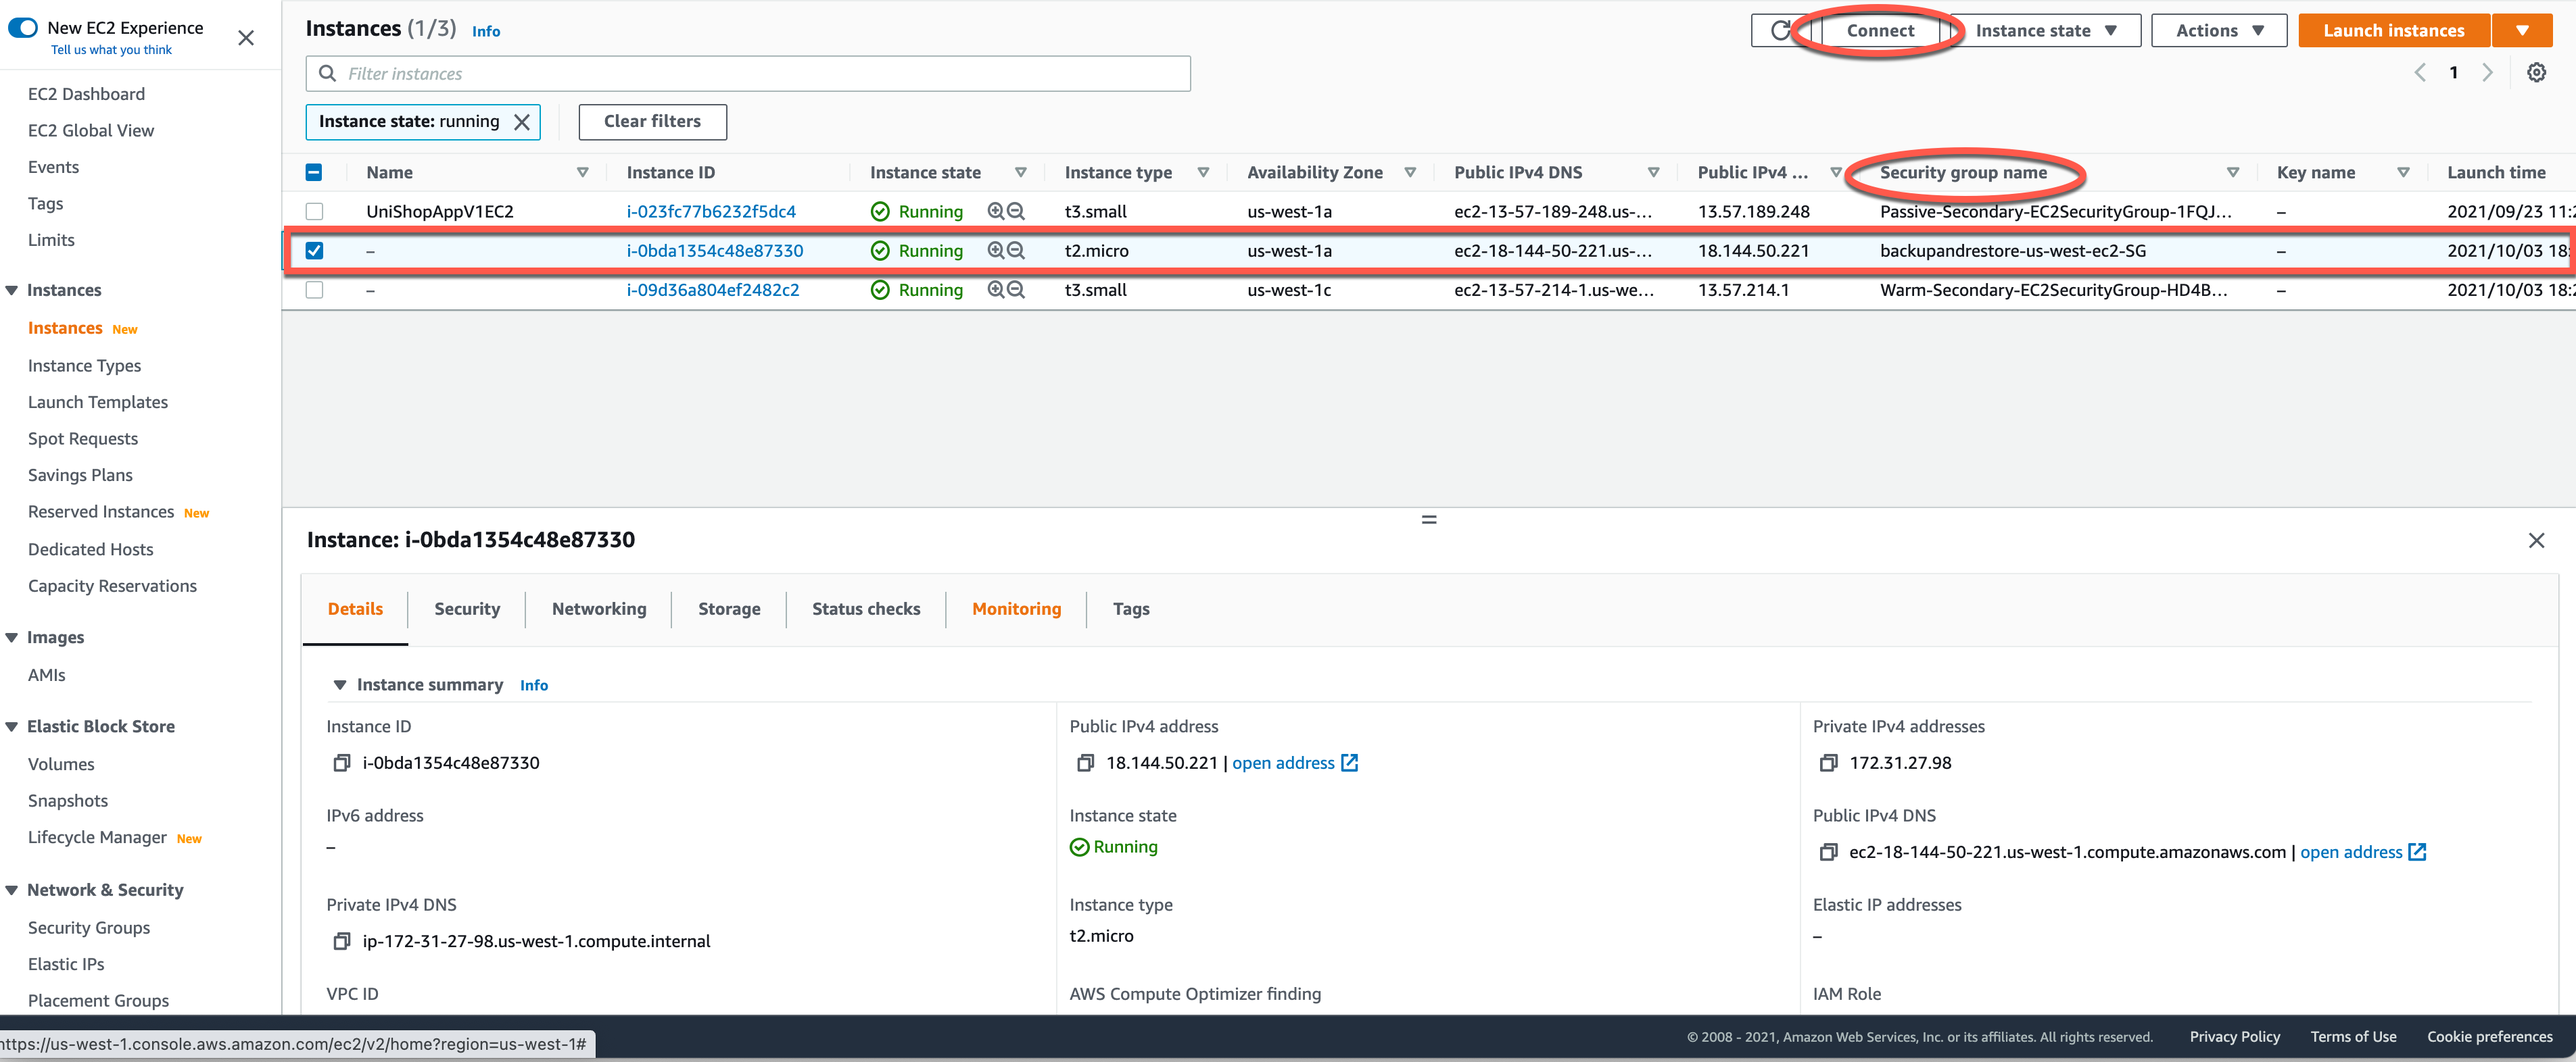
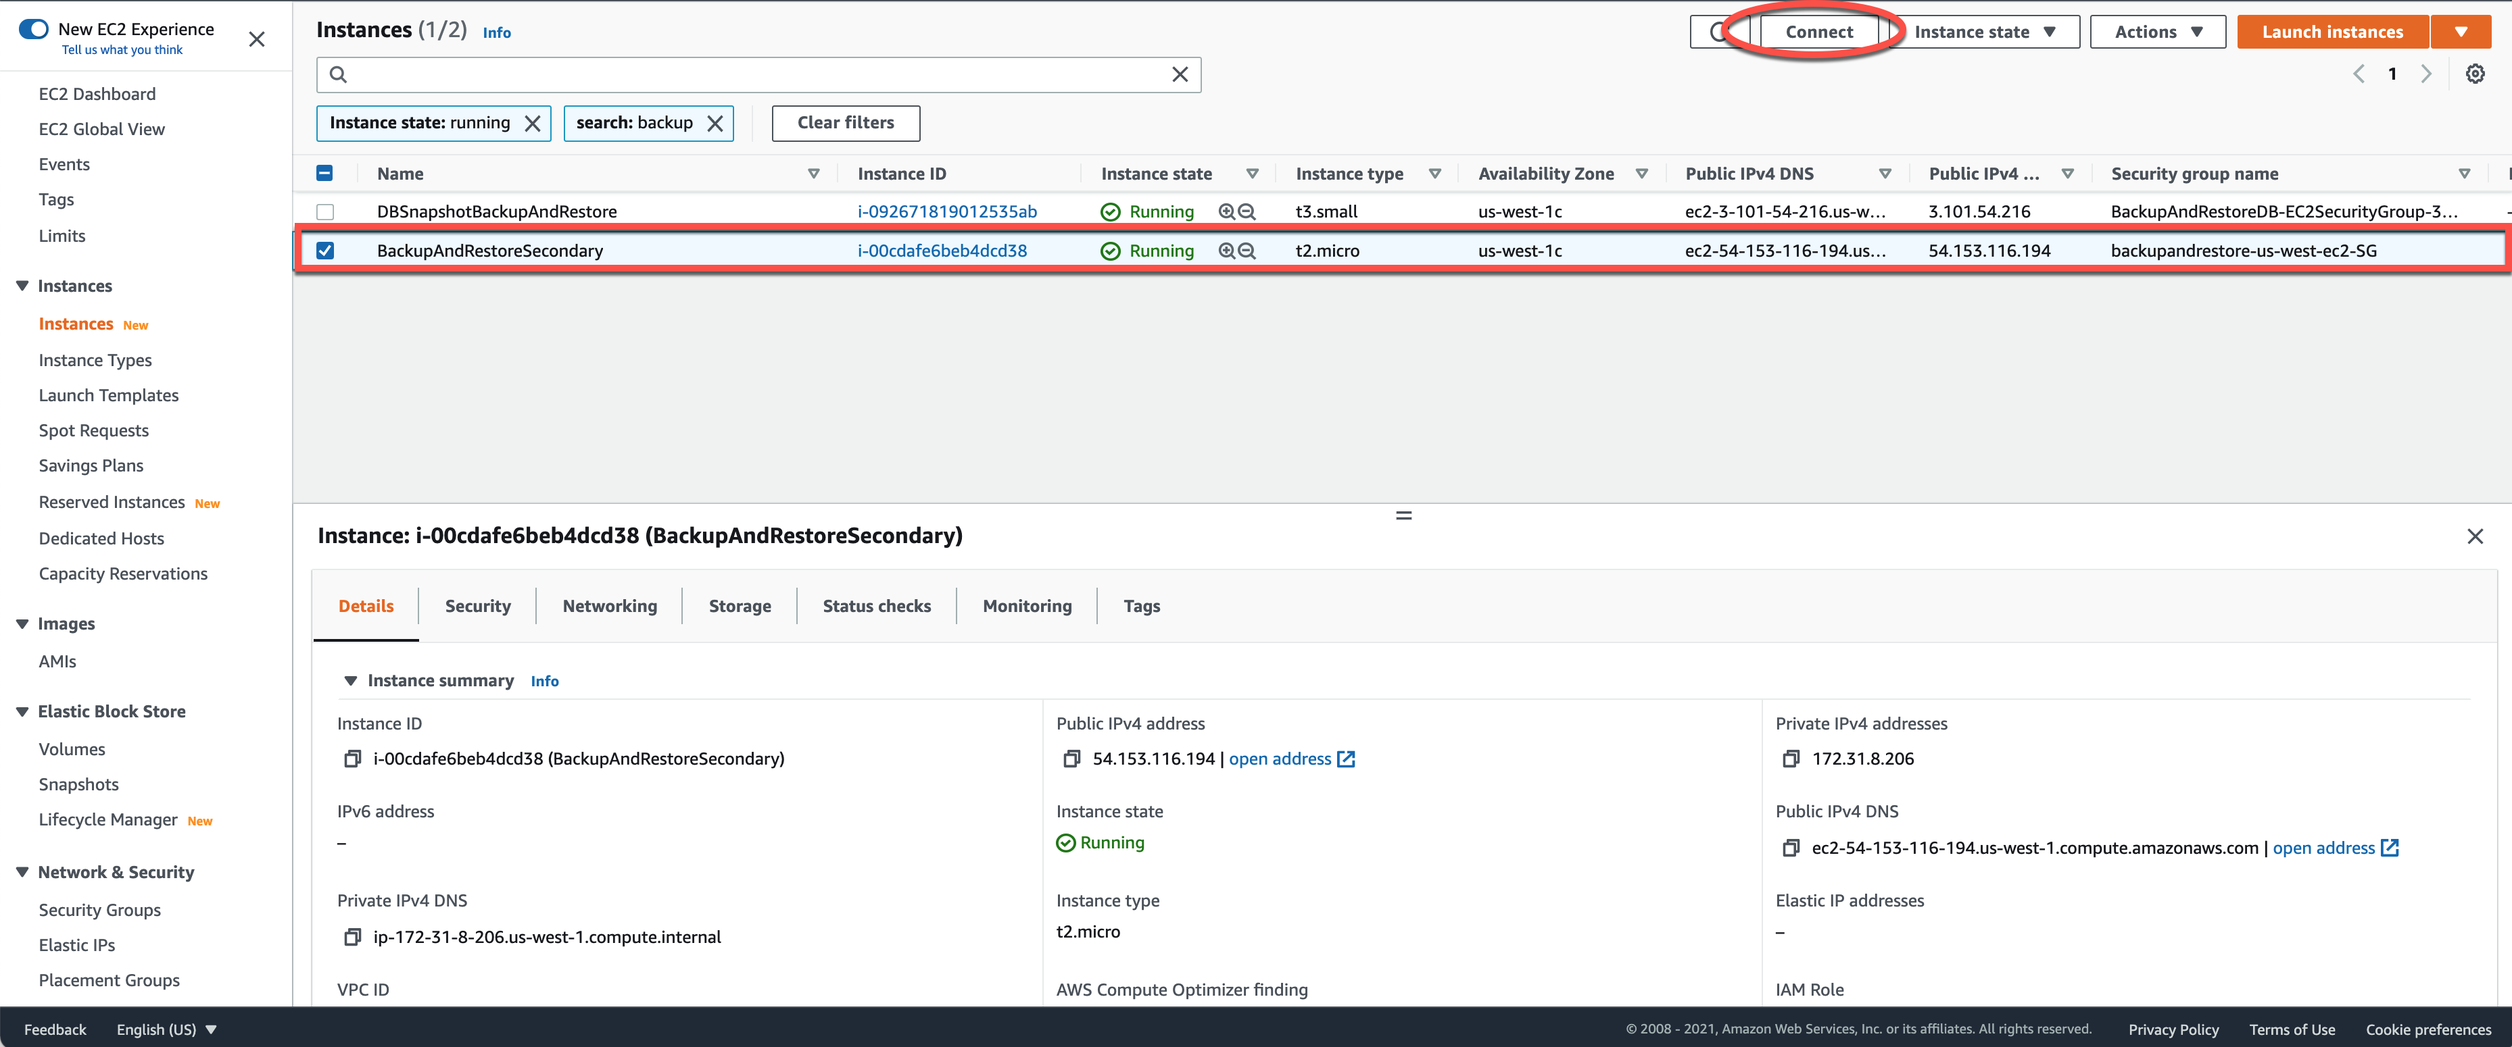
Backup and Restore Second Region

diff --git a/content/Reliability/Disaster Recovery/Workshop_1/disaster/modify-application/_index.en.md b/content/Reliability/Disaster Recovery/Workshop_1/disaster/modify-application/_index.en.md
@@ -12,7 +12,7 @@ weight = 3
 
 {{< img BK-4.png >}}
 
-1.3 Select the instance that has **backupandrestore-us-west-ec2-SG** as the **Security group name**.  Click the **Connect** button.
+1.3 Select the **BackupAndRestoreSecondary** instance, then click the **Connect** button.
 
 {{< img RS-44.png >}}
 
@@ -24,14 +24,45 @@ weight = 3
 
 {{< img am-5.png >}}
 
-1.6 Let's connect to the database in the secondary **N. California (us-west-1)** region. Replace the below **backupandrestore-secondary-region.xxxx.us-west-1.rds.amazonaws.com** with the endpoint you copied from [RDS Section](../rds/).
-
+1.6 Let's connect to the database in the secondary **N. California (us-west-1)** region. 
 ```sh
 sudo su ec2-user
 cd /home/ec2-user
-sudo mysql -u UniShopAppV1User -P 3306 -pUniShopAppV1Password -h backupandrestore-secondary-region.xxxx.us-west-1.rds.amazonaws.com 
-SHOW DATABASES;
 ```
+Replace the below **backupandrestore-secondary-region.xxxx.us-west-1.rds.amazonaws.com** with the endpoint you copied from [RDS Section](../rds/).
+
+```sh
+sudo mysql -u UniShopAppV1User -P 3306 -pUniShopAppV1Password -h backupandrestore-secondary-region.xxxx.us-west-1.rds.amazonaws.com
+```
+
+Type **show databases**.
+
+```sh
+MySQL [(none)]> show databases;
+```
+
+You should see the following:
+
+```sh 
++--------------------+
+| Database           |
++--------------------+
+| information_schema |
+| mysql              |
+| performance_schema |
+| sys                |
+| unishop            |
++--------------------+
+5 rows in set (0.02 sec)
+
+```
+
+Type **exit** to return to the command prompt.
+
+```sh
+MySQL [(none)]> exit
+```
+
 1.7 Open the **unishopcfg.sh** file for editing with either nano or vi.
 
 ```sh
@@ -50,17 +81,25 @@ export AWS_DEFAULT_REGION=us-west-1
 export UI_RANDOM_NAME=backupandrestore-uibucket-xxxx-dr
 ```
 
-1.9 Let's copy the application files to the S3 buckets.  Replace the **backupandrestore-uibucket-xxxx-dr** with the name of your S3 bucket.
+Exit the editor, saving your changes.
+
+1.9 Lets use the source command which reads and executes commands from the unishopcfg.sh file
+
+```sh
+source unishopcfg.sh
+```
+
+1.10 Let's copy the application files to the S3 buckets. 
 
 {{% notice note %}}
 If our S3 buckets contained application data then it would be necessary to schedule recurring backups to meet the target RPO. This could be done with Cross Region Replication. Since our buckets contains no data, only code, we will restore the contents from the EC2 instance.
 {{% /notice %}}
 
 ```sh
-sudo aws s3 cp /home/ec2-user/UniShopUI s3://backupandrestore-uibucket-xxxx-dr/ --recursive --grants read=uri=http://acs.amazonaws.com/groups/global/AllUsers
+sudo aws s3 cp /home/ec2-user/UniShopUI s3://$UI_RANDOM_NAME/ --recursive --grants read=uri=http://acs.amazonaws.com/groups/global/AllUsers
 ```
 
-1.10 Reboot the EC2 instance so our changes take effect.
+1.11 Reboot the EC2 instance so our changes take effect.
 
 ```sh
 sudo reboot
@@ -72,7 +111,7 @@ sudo reboot
 
 ```json
 {
-    "host": "{{Replace with your EC2 public IPv4 DNS name copied from EC2 section}}",
+    "host": "http://{{Replace with your EC2 public IPv4 DNS name copied from EC2 section}}",
     "region": "us-west-1"
 }
 ```
@@ -90,7 +129,7 @@ Your final `config.json` should look similar to this example.
 
 3.1 Click [S3](https://console.aws.amazon.com/s3/home?region=us-east-1#/) to navigate to the dashbarod.
 
-3.2 Find the bucket that ends with **-dr-** and click the bucket name link.
+3.2 Click the link for **backupandrestore-uibucket-xxxx-dr**.
 
 {{< img c-9.png >}}
 
@@ -109,6 +148,8 @@ Your final `config.json` should look similar to this example.
 3.6 Enable the **I understand the effets of these changes on the specified objects.** checkbox.  Click the **Upload** button.
 
 {{< img c-14.png >}}
+
+Click the **Close** button.
 
 3.7 Click the **Properties** link.  In the **Static website hosting** section, click the **Edit** button.
 

diff --git a/content/Reliability/Disaster Recovery/Workshop_1/disaster/rds/_index.en.md b/content/Reliability/Disaster Recovery/Workshop_1/disaster/rds/_index.en.md
@@ -6,6 +6,11 @@ weight = 2
 
 ### Restore RDS Database
 
+{{% notice info %}}
+If you are running this workshop as part of an instructor led workshop, the RDS has already been restored to the **N. California (us-west-1)** region due to time constraints.  **Please review the steps in this section so you understand how the restore should work and then continue with the Configure Security Group Section below**.
+{{% /notice  %}}
+
+
 1.1 Click [AWS Backup](https://us-west-1.console.aws.amazon.com/backup/home?region=us-west-1#/) to navigate to the dashboard in the **N. California (us-west-1)** region.
 
 1.2 Click the **Backup Vaults** link, then click the **Default** link.
@@ -22,7 +27,7 @@ If you don't see your backup, check the status of the **Copy Job**. Click [AWS B
 
 {{< img BK-26.png >}}
 
-1.4 In the **Settings** section, enter `backupandrestore-secondary-region` as the **DB Instance Identifier**. Under **Network & Security** section, select **us-west-1a** as the **Availability zone**.
+1.4 In the **Settings** section, enter `backupandrestore-secondary-region` as the **DB Instance Identifier**. Under **Network & Security** section, select **us-west-xx** as the **Availability zone**.
 
 {{< img RS-18.png >}}
 
@@ -42,11 +47,11 @@ If you don't see your backup, check the status of the **Copy Job**. Click [AWS B
 
 {{< img RS-24.png >}}
 
-2.4 in the **Inbound Rules** section, click the **Add rule** button.  Select **MYSQL/Aurora** as the **Type**.  Select **Customer** as the **Source** and choose **backupandrestore-us-west-ec2-SG**.  This will allow the communication between your EC2 instance and your RDS instance. Click the **Create security group** button.
+2.4 in the **Inbound Rules** section, click the **Add rule** button.  Select **MYSQL/Aurora** as the **Type**.  Select **Custom** as the **Source** and choose **backupandrestore-us-west-ec2-SG**.  This will allow the communication between your EC2 instance and your RDS instance. Click the **Create security group** button.
 
 {{< img RS-40.png >}}
 
-### Modify RDS Security Group
+### Modify RDS 
 
 3.1 Click [RDS](https://us-west-1.console.aws.amazon.com/rds/home?region=us-west-1#/) to navigate to the dashboard in the **N. California (us-west-1)** region.
 

diff --git a/content/Reliability/Disaster Recovery/Workshop_1/disaster/ec2/_index.en.md b/content/Reliability/Disaster Recovery/Workshop_1/disaster/ec2/_index.en.md
@@ -22,19 +22,23 @@ weight = 1
 
 {{< img RS-8.png >}}
 
-1.6 Select **BackupRestore-S3InstanceProfile-xxxx** as the **IAM Role**, then click the **Next: Add Storage** button.
+1.6 Select **BackupAndRestore-S3InstanceProfile-xxxx** as the **IAM Role**, then click the **Next: Add Storage** button.
 
 {{< img rs-9.png >}}
 
-1.7 Click the **Next: Add tags** button and click the **Next: Configure Security Group** button.
+1.7 Click the **Next: Add tags** button.
 
-1.8 Select **Create a new security group** and enter `backupandrestore-us-west-ec2-SG` as the **Security group name** and **Description**.  Add the rules as shown by clicking the **Add Rule** button.  (Click on image to enlarge) Click the **Review and Launch** button.
+1.8 Add `Name` as the **Key** and `BackupAndRestoreSecondary` as the **Value**, then click the **Next: Configure Security Group** button.
+
+{{< img rs-10.png >}}
+
+1.9 Select **Create a new security group** and enter `backupandrestore-us-west-ec2-SG` as the **Security group name** and **Description**.  Add the rules as shown by clicking the **Add Rule** button.  (Click on image to enlarge) Click the **Review and Launch** button.
 
 {{< img ss-3.png >}}
 
-1.9 Click the **Launch** button.
+1.10 Click the **Launch** button.
 
-1.10 Select **Proceed without a key pair**, enable the **I acknowledge that without a key pair,...** checkbox, then click the **Launch Instances** button.
+1.11 Select **Proceed without a key pair**, enable the **I acknowledge that without a key pair,...** checkbox, then click the **Launch Instances** button.
 
 {{< img RS-15.png >}}
 

diff --git a/content/Reliability/Disaster Recovery/Workshop_1/backup-resources/rds/_index.en.md b/content/Reliability/Disaster Recovery/Workshop_1/backup-resources/rds/_index.en.md
@@ -16,4 +16,10 @@ weight = 1
 
 {{< img BK-23.png >}}
 
+{{% notice warning %}}
+If you see this error, please **REPEAT** Steps 1.1 through 1.3 above makig sure you start from Step 1.1.
+{{% /notice %}}
+
+{{< img BK-26.png >}}
+
 {{< prev_next_button link_prev_url="../" link_next_url="../ec2/" />}}
